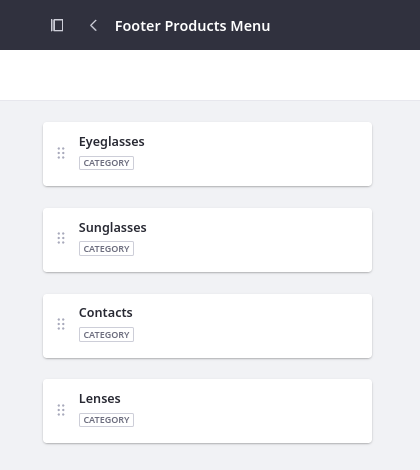
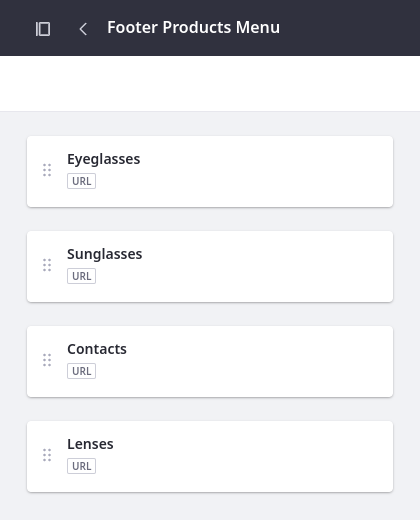
LRDOCS-12791 updates navigation menus article

diff --git a/docs/courses/latest/en/building-enterprise-websites-with-liferay/module-6-site-building/creating-navigation-menus-for-claritys-master-pages.md b/docs/courses/latest/en/building-enterprise-websites-with-liferay/module-6-site-building/creating-navigation-menus-for-claritys-master-pages.md
@@ -56,14 +56,16 @@ While editing the menu,
 
 1. Drag and drop the pages into this order:
 
-   * About Us
    * Products
+   * About Us
    * Blog
    * FAQ
    * Careers
    * Contact Us
 
    ![Drag and drop the pages to reorder them.](./creating-navigation-menus-for-claritys-master-pages/images/06.gif)
+
+   <!--TASK: Update gif-->
 
 These changes are saved automatically, so the menu is ready for use in the master pages.
 
@@ -117,7 +119,16 @@ Repeat the steps from exercises one and two to create these four menus for the p
 
 **Name**: Footer Products Menu
 
-**Pages**: Eyeglasses, Sunglasses, Contacts, Lenses
+**Menu Items**: Eyeglasses, Sunglasses, Contacts, Lenses
+
+To create this menu, select the URL type for each entry and enter these values:
+
+| Menu Item  | Type | Value                       |
+|:-----------|:-----|:----------------------------|
+| Eyeglasses | URL  | `/web/clarity/g/eyeglasses` |
+| Sunglasses | URL  | `/web/clarity/g/sunglasses` |
+| Contacts   | URL  | `/web/clarity/g/contacts`   |
+| Lenses     | URL  | `/web/clarity/g/lenses`     |
 
 ![Create the footer Products menu.](./creating-navigation-menus-for-claritys-master-pages/images/09.png)
 
@@ -125,10 +136,15 @@ Repeat the steps from exercises one and two to create these four menus for the p
 
 **Name**: Footer About Us Menu
 
-**Pages**: Leadership, Our Impact, Careers
+**Menu Items**: Leadership, Our Impact, Careers
 
-!!! note
-    The Leadership and Our Impact links should direct users to the About Us page. Just add the page twice and use custom names for each menu item.
+The Leadership and Our Impact links should direct users to the About Us page. To do this, just add the page twice and use custom names for each menu item.
+
+| Menu Item  | Type | Value    |
+|:-----------|:-----|:---------|
+| Leadership | Page | About Us |
+| Our Impact | Page | About Us |
+| Contacts   | Page | Careers  |
 
 ![Create the footer About Us menu.](./creating-navigation-menus-for-claritys-master-pages/images/10.png)
 
@@ -136,7 +152,12 @@ Repeat the steps from exercises one and two to create these four menus for the p
 
 **Name**: Footer Resources Menu
 
-**Pages**: Blog, FAQ
+**Menu Items**: Blog, FAQ
+
+| Menu Item | Type | Value |
+|:----------|:-----|:------|
+| Blog      | Page | Blog  |
+| FAQ       | Page | FAQ   |
 
 ![Create the footer Resources menu.](./creating-navigation-menus-for-claritys-master-pages/images/11.png)
 
@@ -144,22 +165,23 @@ Repeat the steps from exercises one and two to create these four menus for the p
 
 **Name**: Footer Get In Touch Menu
 
-**Pages**: Contact Us
+**Menu Items**: Contact Us
+
+| Menu Item  | Type | Value      |
+|:-----------|:-----|:-----------|
+| Contact Us | Page | Contact Us |
 
 ![Create the footer Get In Touch menu.](./creating-navigation-menus-for-claritys-master-pages/images/12.png)
 
-Now that the menus are defined, you can update the existing menu displays in the master pages to use them.
-
-<!--TASK:
 ### Footer Legal Menu
 
 **Name**: Footer Legal Menu
 
-**Pages**: ???
+**Menu Items**: N/A
 
-![Create the footer legal menu.](./creating-navigation-menus-for-claritys-master-pages/images/13.png)
+For now, leave this menu empty. You'll return to it in Module 7.
 
-Now that the menus are defined, you can update the existing menu displays in the master pages to use them. -->
+Now that the menus are defined, you can update the existing menu displays in the master pages to use them.
 
 ## Exercise Five: Updating the Master Pages
 
@@ -173,15 +195,17 @@ When you add a menu display fragment or widget to a page, you can determine whic
 
    ![Set the source to Header Page Menu.](./creating-navigation-menus-for-claritys-master-pages/images/14.gif)
 
+   <!--TASK: Update gif -->
+
 1. Repeat the above process for the menu displays in the footer.
 
 1. Click *Publish Master*.
 
-1. Repeat the above process to update the secondary master page’s menu.
+1. Repeat the above process to update the secondary master page’s menus.
 
 Once finished, navigate to the Home page to see how your changes to the template were automatically applied to the connected pages.
 
-<!--TASK: ![Navigate to the Home page to see how your changes to the template were automatically applied to the connected pages.](./creating-navigation-menus-for-claritys-master-pages/images/14.png)-->
+<!-- TASK: ![Navigate to the Home page to see how your changes to the template were automatically applied to the connected pages.](./creating-navigation-menus-for-claritys-master-pages/images/14.png) -->
 
 ## Conclusion
 
